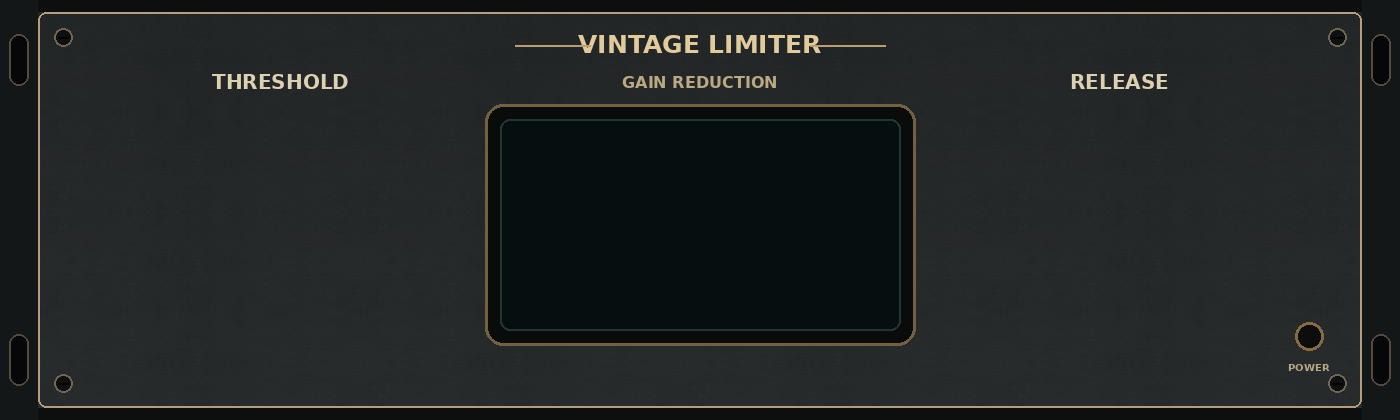
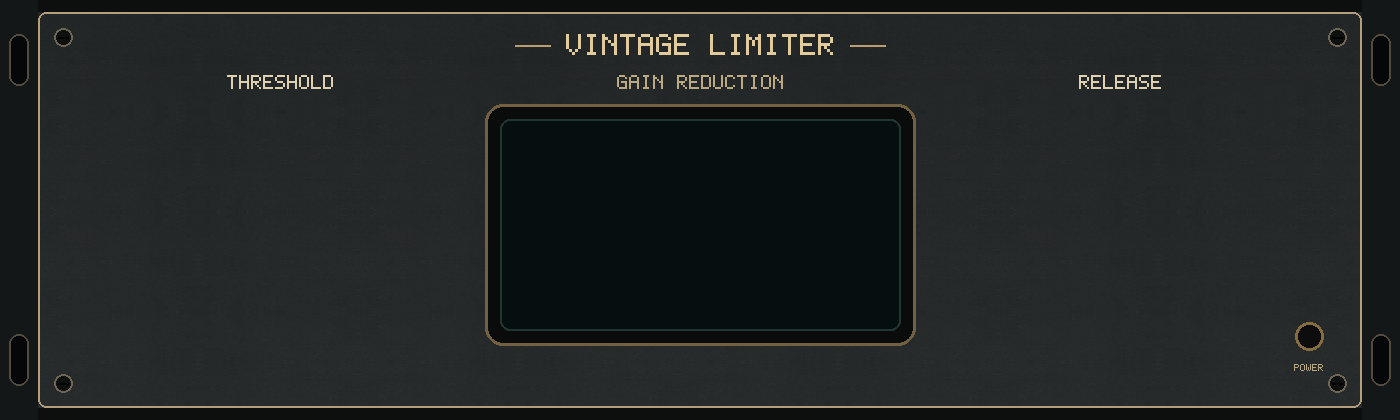
fix(host): make rack assets host deterministic

diff --git a/tools/render_rack_assets.py b/tools/render_rack_assets.py
@@ -15,7 +15,7 @@ import tempfile
 from typing import Optional, Tuple
 
 import numpy as np
-from PIL import Image, ImageDraw, ImageFont, ImageOps
+from PIL import Image, ImageDraw, ImageOps
 
 
 ROOT = Path(__file__).resolve().parents[1]
@@ -28,6 +28,50 @@ import io24_rack_reference
 DESIGN = ROOT / "docs" / "design"
 _PNG_SAVE = {"format": "PNG", "compress_level": 9, "optimize": False}
 
+# Five-bit-wide, seven-row glyphs keep generated PNGs independent of host
+# fonts, Pillow's bundled font version, font discovery, and fallback behavior.
+_BITMAP_GLYPHS = {
+    " ": (0, 0, 0, 0, 0, 0, 0),
+    "-": (0, 0, 0, 31, 0, 0, 0),
+    ".": (0, 0, 0, 0, 0, 12, 12),
+    "0": (14, 17, 19, 21, 25, 17, 14),
+    "1": (4, 12, 4, 4, 4, 4, 14),
+    "2": (14, 17, 1, 2, 4, 8, 31),
+    "3": (30, 1, 1, 14, 1, 1, 30),
+    "4": (2, 6, 10, 18, 31, 2, 2),
+    "5": (31, 16, 16, 30, 1, 1, 30),
+    "6": (14, 16, 16, 30, 17, 17, 14),
+    "7": (31, 1, 2, 4, 8, 8, 8),
+    "8": (14, 17, 17, 14, 17, 17, 14),
+    "9": (14, 17, 17, 15, 1, 1, 14),
+    "A": (14, 17, 17, 31, 17, 17, 17),
+    "B": (30, 17, 17, 30, 17, 17, 30),
+    "C": (14, 17, 16, 16, 16, 17, 14),
+    "D": (30, 17, 17, 17, 17, 17, 30),
+    "E": (31, 16, 16, 30, 16, 16, 31),
+    "F": (31, 16, 16, 30, 16, 16, 16),
+    "G": (14, 17, 16, 23, 17, 17, 15),
+    "H": (17, 17, 17, 31, 17, 17, 17),
+    "I": (14, 4, 4, 4, 4, 4, 14),
+    "J": (7, 2, 2, 2, 2, 18, 12),
+    "K": (17, 18, 20, 24, 20, 18, 17),
+    "L": (16, 16, 16, 16, 16, 16, 31),
+    "M": (17, 27, 21, 21, 17, 17, 17),
+    "N": (17, 25, 21, 19, 17, 17, 17),
+    "O": (14, 17, 17, 17, 17, 17, 14),
+    "P": (30, 17, 17, 30, 16, 16, 16),
+    "Q": (14, 17, 17, 17, 21, 18, 13),
+    "R": (30, 17, 17, 30, 20, 18, 17),
+    "S": (15, 16, 16, 14, 1, 1, 30),
+    "T": (31, 4, 4, 4, 4, 4, 4),
+    "U": (17, 17, 17, 17, 17, 17, 14),
+    "V": (17, 17, 17, 17, 17, 10, 4),
+    "W": (17, 17, 17, 21, 21, 21, 10),
+    "X": (17, 17, 10, 4, 10, 17, 17),
+    "Y": (17, 17, 10, 4, 4, 4, 4),
+    "Z": (31, 1, 2, 4, 8, 16, 31),
+}
+
 
 def sha256(path: Path) -> str:
     digest = hashlib.sha256()
@@ -37,16 +81,27 @@ def sha256(path: Path) -> str:
     return digest.hexdigest()
 
 
-def _font(size: int, bold: bool = False):
-    name = "DejaVuSans-Bold.ttf" if bold else "DejaVuSans.ttf"
-    try:
-        return ImageFont.truetype(name, size=size)
-    except OSError:
-        return ImageFont.load_default(size=size)
-
-
 def _text(draw, xy, value, *, size, fill, bold=False, anchor="mm"):
-    draw.text(xy, value, font=_font(size, bold), fill=fill, anchor=anchor)
+    del bold
+    if anchor != "mm":
+        raise ValueError("bitmap text supports only the mm anchor")
+    value = str(value).upper()
+    unknown = set(value).difference(_BITMAP_GLYPHS)
+    if unknown:
+        raise ValueError("unsupported bitmap glyphs: %s" % "".join(sorted(unknown)))
+    scale = max(1, int(size) // 7)
+    width = max(0, (len(value) * 6 - 1) * scale)
+    height = 7 * scale
+    left = int(round(xy[0] - width / 2.0))
+    top = int(round(xy[1] - height / 2.0))
+    for character_index, character in enumerate(value):
+        for row, bits in enumerate(_BITMAP_GLYPHS[character]):
+            for column in range(5):
+                if bits & (1 << (4 - column)):
+                    x = left + (character_index * 6 + column) * scale
+                    y = top + row * scale
+                    draw.rectangle(
+                        (x, y, x + scale - 1, y + scale - 1), fill=fill)
 
 
 def _material(spec, design_root: Path, size: Tuple[int, int]) -> Image.Image:
@@ -106,8 +161,8 @@ def _render_limiter_base(spec: dict, design_root: Path) -> Image.Image:
         radius=8, outline=(154, 125, 78, 190), width=2)
     _text(draw, (700, 44), "VINTAGE LIMITER", size=25,
           fill=(225, 203, 157, 255), bold=True)
-    draw.line((515, 45, 590, 45), fill=(176, 143, 88, 220), width=2)
-    draw.line((810, 45, 885, 45), fill=(176, 143, 88, 220), width=2)
+    draw.line((515, 45, 550, 45), fill=(176, 143, 88, 220), width=2)
+    draw.line((850, 45, 885, 45), fill=(176, 143, 88, 220), width=2)
     _text(draw, (280, 82), "THRESHOLD", size=20,
           fill=(222, 209, 177, 255), bold=True)
     _text(draw, (1120, 82), "RELEASE", size=20,
@@ -135,14 +190,22 @@ def _render_limiter_base(spec: dict, design_root: Path) -> Image.Image:
 
 def _isolated_knob(spec: dict, design_root: Path) -> Image.Image:
     source = Image.open(design_root / spec["knob_source"]).convert("RGBA")
-    bounds = source.getchannel("A").getbbox()
+    source_alpha = source.getchannel("A")
+    source_extrema = source_alpha.getextrema()
+    if source_extrema[0] != 0 or source_extrema[1] == 0:
+        raise ValueError("knob source must contain transparent and visible pixels")
+    bounds = source_alpha.getbbox()
     if bounds is None:
         raise ValueError("empty knob mask")
     source = source.crop(bounds)
+    cropped_extrema = source.getchannel("A").getextrema()
+    if cropped_extrema[0] != 0 or cropped_extrema[1] == 0:
+        raise ValueError("cropped knob must contain transparent and visible pixels")
     diameter = int(spec["controls"]["threshold"]["geometry"][2] * 2)
     knob = source.resize((diameter, diameter), Image.Resampling.LANCZOS)
-    if knob.getchannel("A").getbbox() is None:
-        raise ValueError("empty compiled knob mask")
+    output_extrema = knob.getchannel("A").getextrema()
+    if output_extrema[0] != 0 or output_extrema[1] == 0:
+        raise ValueError("compiled knob must contain transparent and visible pixels")
     return knob
 
 
@@ -365,15 +428,15 @@ def _check_rack(rack_id: str, design_root: Path) -> bool:
     return True
 
 
-def main(argv=None) -> int:
+def main(argv=None, design_root=DESIGN) -> int:
     parser = argparse.ArgumentParser(description=__doc__)
     parser.add_argument("rack_id")
     parser.add_argument("--check", action="store_true")
     arguments = parser.parse_args(argv)
     try:
         if arguments.check:
-            return 0 if _check_rack(arguments.rack_id, DESIGN) else 1
-        receipt = compile_rack(arguments.rack_id, DESIGN)
+            return 0 if _check_rack(arguments.rack_id, design_root) else 1
+        receipt = compile_rack(arguments.rack_id, design_root)
     except (OSError, ValueError) as error:
         parser.error(str(error))
     print(json.dumps(receipt, sort_keys=True))

diff --git a/tests/test_io24_rack_reference.py b/tests/test_io24_rack_reference.py
@@ -1,10 +1,13 @@
 import hashlib
 import json
 from pathlib import Path
+import shutil
 import subprocess
 import sys
 import tempfile
 import unittest
+
+from PIL import Image
 
 import io24_rack_reference
 from tools import render_rack_assets
@@ -60,6 +63,16 @@ class RackReferenceTests(unittest.TestCase):
                 self.assertEqual(
                     digest,
                     hashlib.sha256((output / filename).read_bytes()).hexdigest())
+            self.assertEqual(
+                receipt["source_sha256"],
+                hashlib.sha256(
+                    (output / "limiter-reference.png").read_bytes()).hexdigest())
+            manifest_bytes = json.dumps(
+                io24_rack_reference.rack("limiter"), sort_keys=True,
+                separators=(",", ":"), ensure_ascii=True).encode("utf-8")
+            self.assertEqual(
+                receipt["manifest_sha256"],
+                hashlib.sha256(manifest_bytes).hexdigest())
 
     def test_check_mode_does_not_write_design_assets(self):
         filenames = ("limiter-reference.png",) + tuple(
@@ -81,6 +94,42 @@ class RackReferenceTests(unittest.TestCase):
             for filename in filenames
         }
         self.assertEqual(after, before)
+
+    def test_check_mode_mismatch_is_nonwriting_and_nonzero(self):
+        with tempfile.TemporaryDirectory() as temp:
+            design = Path(temp)
+            for filename in ("vintage-eq-reference.png",
+                             "vintage-lowmid-knob.png"):
+                shutil.copyfile(DESIGN / filename, design / filename)
+            render_rack_assets.compile_rack("limiter", design)
+            mismatch = design / "limiter-faceplate.png"
+            mismatch.write_bytes(b"intentional mismatch")
+            filenames = ("limiter-reference.png",) + tuple(
+                io24_rack_reference.rack("limiter")["generated"])
+            before = {
+                filename: ((design / filename).read_bytes(),
+                           (design / filename).stat().st_mtime_ns)
+                for filename in filenames
+            }
+            returncode = render_rack_assets.main(
+                ["limiter", "--check"], design_root=design)
+            after = {
+                filename: ((design / filename).read_bytes(),
+                           (design / filename).stat().st_mtime_ns)
+                for filename in filenames
+            }
+            self.assertNotEqual(returncode, 0)
+            self.assertEqual(after, before)
+
+    def test_isolated_knob_rejects_opaque_rectangular_alpha(self):
+        with tempfile.TemporaryDirectory() as temp:
+            design = Path(temp)
+            Image.new("RGBA", (32, 32), (40, 50, 60, 255)).save(
+                design / "opaque.png")
+            spec = io24_rack_reference.rack("limiter")
+            spec["knob_source"] = "opaque.png"
+            with self.assertRaisesRegex(ValueError, "transparent"):
+                render_rack_assets._isolated_knob(spec, design)
 
     def test_limiter_contract_is_exact(self):
         spec = io24_rack_reference.rack("limiter")
@@ -121,7 +170,8 @@ class RackReferenceTests(unittest.TestCase):
         spec = io24_rack_reference.rack("limiter")
         self.assertEqual(io24_rack_reference.validate_rack(spec)["rack_id"], "limiter")
 
-        for key in ("source_size", "panel", "display", "lamp", "controls"):
+        for key in ("source_size", "panel", "display", "lamp", "controls",
+                    "ears", "slots", "screws"):
             broken = dict(spec)
             broken.pop(key)
             with self.assertRaises(ValueError):
@@ -132,6 +182,20 @@ class RackReferenceTests(unittest.TestCase):
         broken["controls"]["release"] = dict(spec["controls"]["threshold"])
         with self.assertRaises(ValueError):
             io24_rack_reference.validate_rack(broken)
+
+    def test_validation_rejects_bad_rack_hardware_geometry(self):
+        bad_values = {
+            "ears": (((0, 0, 38),), ((-1, 0, 38, 420),)),
+            "slots": (((9, 34, 0, 52),), ((1390, 34, 20, 52),)),
+            "screws": (((63, 37),), ((5, 37, 9),)),
+        }
+        for field, candidates in bad_values.items():
+            for value in candidates:
+                broken = io24_rack_reference.rack("limiter")
+                broken[field] = value
+                with self.subTest(field=field, value=value):
+                    with self.assertRaises(ValueError):
+                        io24_rack_reference.validate_rack(broken)
 
     def test_validation_rejects_paths_and_bad_geometry(self):
         spec = io24_rack_reference.rack("limiter")

diff --git a/io24_rack_reference.py b/io24_rack_reference.py
@@ -122,6 +122,7 @@ def validate_rack(spec, design_root=None):
         "source", "output", "material_source", "material_crop",
         "knob_source", "calibration_underlay", "calibration_nodes",
         "knob_output", "receipt", "generated", "cleanup_regions",
+        "ears", "slots", "screws",
     }
     missing = required.difference(spec)
     if missing:
@@ -152,6 +153,17 @@ def validate_rack(spec, design_root=None):
         raise ValueError("generated files do not match declared outputs")
     for field in _RECT_KEYS:
         _rectangle(spec[field], field, source_size)
+    for field in ("ears", "slots"):
+        values = spec[field]
+        if not isinstance(values, (tuple, list)) or not values:
+            raise ValueError("%s must be a non-empty sequence" % field)
+        for index, value in enumerate(values):
+            _rectangle(value, "%s %d" % (field, index), source_size)
+    screws = spec["screws"]
+    if not isinstance(screws, (tuple, list)) or not screws:
+        raise ValueError("screws must be a non-empty sequence")
+    for index, screw in enumerate(screws):
+        _rectangle(screw, "screw %d" % index, source_size, allow_circle=True)
     _rectangle(spec["material_crop"], "material_crop", (2172, 724))
     _rectangle(spec["lamp"], "lamp", source_size, allow_circle=True)
     for index, region in enumerate(spec["cleanup_regions"]):
